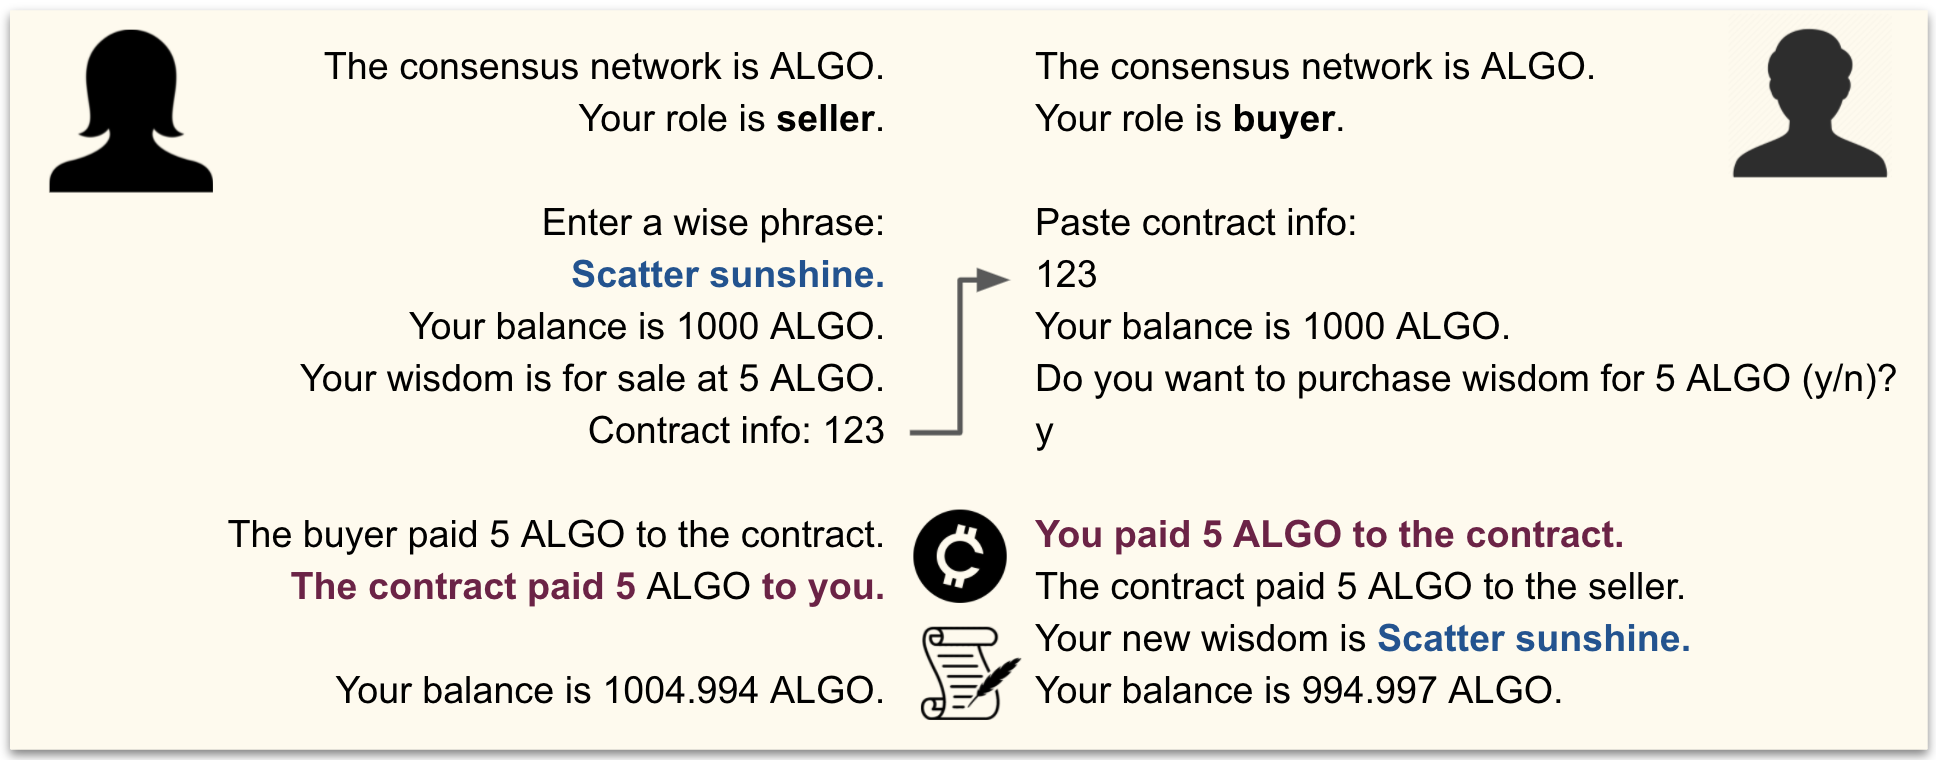
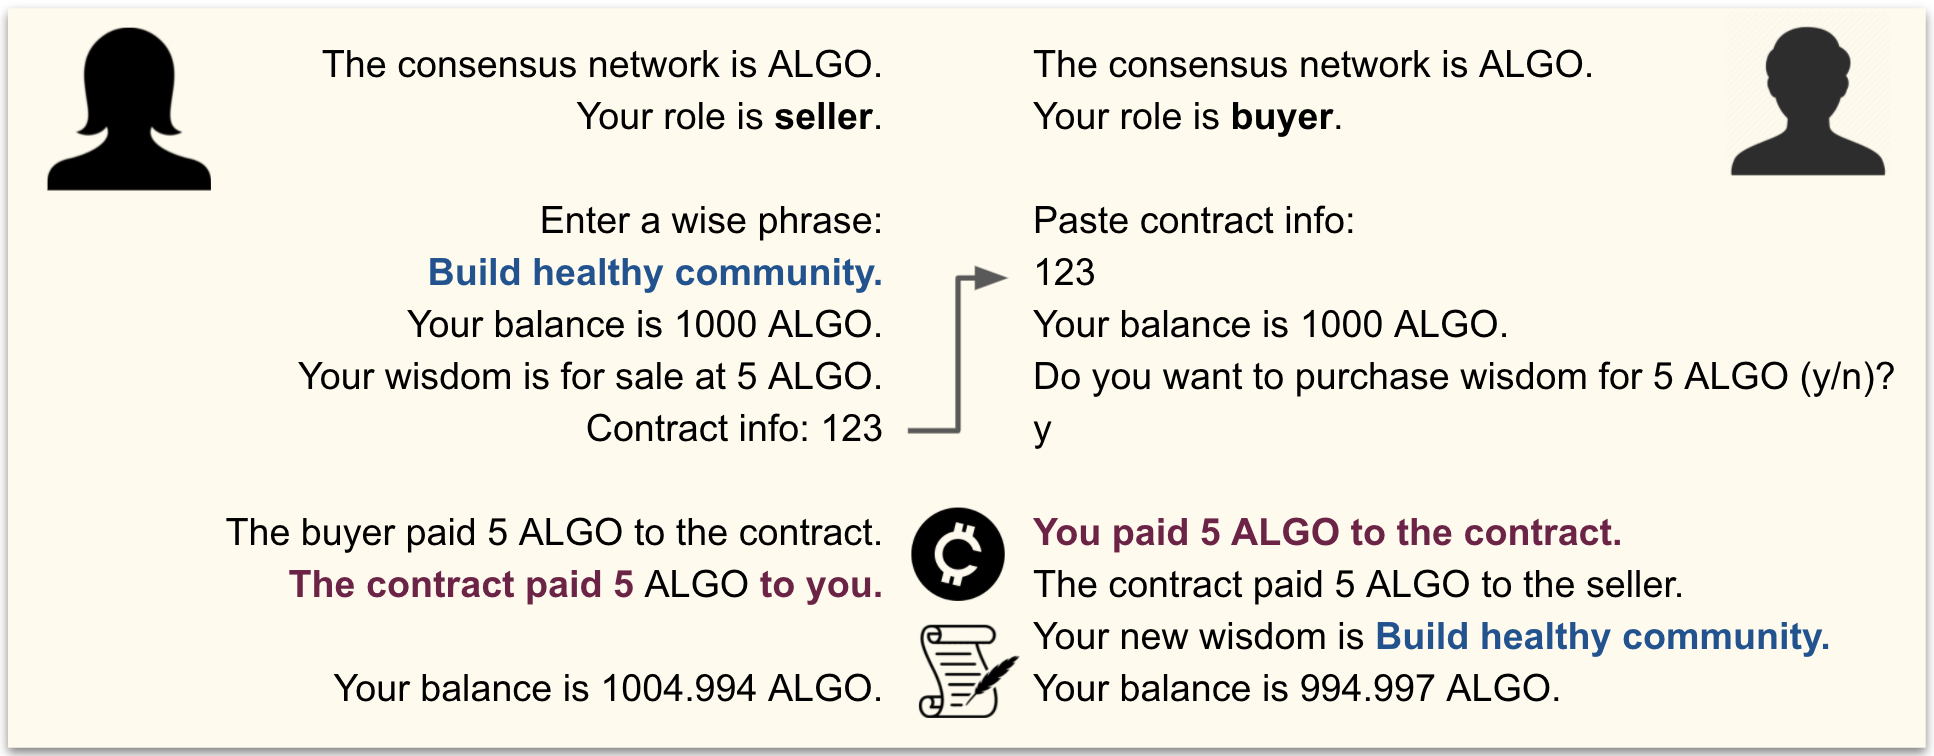
Added ask as a separate step.

diff --git a/assets/scripts.js b/assets/scripts.js
@@ -104,6 +104,7 @@ window.addEventListener('resize', () => {
 ************************************************************************************************/
 
 const getWebpage = async (folder, hash, updateHistory) => {
+  console.log('getWebpage');
 
   folder = folder == '/' || folder == `/${lang}/` ? homepage : folder;
   const url = `${window.location.origin}${folder}`;
@@ -322,19 +323,20 @@ const getWebpage = async (folder, hash, updateHistory) => {
 ************************************************************************************************/
 
 const followLink = async (href) => {
+  console.log('followLink');
   let a = document.createElement('a');
   a.href = href;
 
-  console.log(a.pathname);
-  console.log(a.hash);
+  //console.log(a.pathname);
+  //if(a.hash) {console.log(a.hash)};
 
   if (a.hostname === window.location.hostname) {
     if (currentPage.folder == a.pathname && a.hash) {
       if (a.hash === '#on-this-page') {
-        history.pushState(null, null, currentPage.folder);
+        window.history.pushState(null, null, currentPage.folder);
         document.getElementById('page-col').scrollTo(0, 0);
       } else {
-        history.pushState(null, null, a.hash);
+        window.history.pushState(null, null, a.hash);
         document.getElementById(a.hash.substring(1)).scrollIntoView();
       }
     }

diff --git a/tools/generator.js b/tools/generator.js
@@ -67,7 +67,7 @@ const argv = yargs(process.argv.slice(2))
     alias: 'r',
     describe: 'Add refresh button to page.',
     type: 'boolean',
-    default: true
+    default: false
   })
   .option('type', {
     alias: 't',

diff --git a/en/books/essentials/tutorials/wisdom-for-sale/index.md b/en/books/essentials/tutorials/wisdom-for-sale/index.md
@@ -81,21 +81,19 @@ Below is a line-by-line description of this JavaScript code:
 
 * Line 1: Import the Reach JS Standard Library loader.
 * Line 2: Import the JS backend compiled from index.rsh.
-* Line 3: Import a Reach Node.js package to help with command-line i/o.
-* Line 5: Hard-code the role. You will change this later.
-* Line 6: Display the role.
-* Line 8: Load the Reach JS Stdlib for the consensus network specified by `REACH_CONNECTOR_MODE` env var.
-* Line 9: Display the consensus network type.
-* Line 11: Enable enclosed code to await the fulfillment of promises.
-* Line 13: Define empty (for now) object.
-* Line 16: Code for when you run this app as the seller.
-* Line 17: Define empty (for now) object.
-* Line 19: Create an account for the seller. *parseCurrency* transforms units from standard to atomic.
-* Line 20: Get a reference to the contract.
-* Line 21: Initiate interaction with contract for seller.
-* Line 25: Code for when you run this app as the buyer.
-* Line 26: Define empty (for now) object.
-* Line 29: Call process.exit(0).
+* Line 4: Hard-code the role. You will change this later.
+* Line 5: Display the role.
+* Line 7: Load the Reach JS Stdlib for the consensus network specified by `REACH_CONNECTOR_MODE` env var.
+* Line 8: Display the consensus network type.
+* Line 10: Enable enclosed code to await the fulfillment of promises.
+* Line 12: Define empty (for now) object.
+* Line 15: Code for when you run this app as the seller.
+* Line 16: Define empty (for now) object.
+* Line 18: Create an account for the seller. *parseCurrency* transforms units from standard to atomic.
+* Line 19: Get a reference to the contract.
+* Line 20: Initiate interaction with contract for seller.
+* Line 24: Code for when you run this app as the buyer.
+* Line 25: Define empty (for now) object.
 
 **index.rsh**
 
@@ -228,7 +226,7 @@ Below is a line-by-line description:
 <hr style="background-color:#6c757d;opacity:1;height:5px;"/>
 </span>
 
-# Pass role as argument
+# Pass a role argument
 
 This section shows you how to modify the starter app to accept a command-line argument specifying whether to run as the seller or buyer. Although this change does not involve Reach directly, it does emphasize that your application represents two different participants negotiating via the same contract.
 
@@ -404,7 +402,7 @@ This section helps you explore standard and atomic units using the [JavaScript S
 
 # Deploy the contract (seller)
 
-This section shows you how to have the seller (1) deploy the contract and (2) return the contract information used later by the buyer to attach to the contract. The format of contract information varies depending on the consensus network. Here are examples:
+This section shows you how to have the seller (1) deploy the contract and (2) return the contract information to be used later by the buyer to attach to the contract. The format of contract information varies depending on the consensus network. Here are examples:
 
 |Conensus Network|Contract Information Example|
 |-|-|
@@ -412,7 +410,20 @@ This section shows you how to have the seller (1) deploy the contract and (2) re
 |Conflux|`"NET999:TYPE.CONTRACT:ACDWGDGH6DKDAJ528Y5CCWMX8NBVPHXU72S3FPF8CY"`|
 |Ethereum|`"0x403372276F841d7451E6417Cc7B17fDD159FE34C"`|
 
-Be sure to include the quotation marks (if present) when you copy & paste contract information from the Seller Terminal to the Buyer Terminal.
+In this tutorial, the seller outputs the contract information to the Seller Terminal, and the buyer copies & pastes the contract information from the Seller Terminal to the Buyer Terminal (including the quotation marks if persent). In real life, the seller would need to search for a contract name and its associated contract information in some repository. 
+
+<button class="btn btn-secondary btn-sm" type="button" data-bs-toggle="collapse" data-bs-target="#fsci" aria-expanded="false">
+  <i class="fas fa-info-circle me-2"></i><span>Storing and Finding Contract Information</span>
+</button>
+
+<span class="collapse" id="fsci">
+
+Not done yet.
+
+<hr style="background-color:#6c757d;opacity:1;height:5px;"/>
+</span>
+
+Follow these directions to have the seller deploy the contract and return the contract information:
 
 1. In *index.mjs*, find the following line:
 
@@ -491,7 +502,7 @@ Be sure to include the quotation marks (if present) when you copy & paste contra
 
     The seller creates the contract, retrieves the contract information, and makes it available to the buyer who will (shortly) use the information to attach to the contract. Note that simply deploying the contract cost the seller gas.
 
-The interact objects introduced in this section facilitate communication between the frontend (e.g. `index.mjs`) and backend (e.g. `index.main.mjs`) of Reach applications, remembering that `index.rsh` is the pre-compiled version of `index.main.mjs`.
+The interact objects introduced in this section facilitate communication between the frontend (e.g. `index.mjs`) and backend (e.g. `index.main.mjs`) of Reach applications, (remembering that `index.rsh` is the pre-compiled version of `index.main.mjs`).
 
 <button class="btn btn-secondary btn-sm" type="button" data-bs-toggle="collapse" data-bs-target="#aio" aria-expanded="false">
   <i class="fas fa-info-circle me-2"></i><span>About Interact Objects</span>
@@ -506,7 +517,15 @@ Not done yet.
 
 # Attach to the contract (buyer)
 
-This section shows you how to have the buyer attach to the contact.
+This section shows you how to have the buyer attach to the contact. It also introduces *@reach-sh/stdlib/ask.mjs*, a minimal Reach Node.js package for command-line input.
+
+1. In *index.mjs*, add the following near the top of the file:
+
+    ``` js nonum
+    import { ask, yesno, done } from '@reach-sh/stdlib/ask.mjs';
+    ```
+
+1. And, add `done();` just before `})();` at the bottom of the file. 
 
 1. In *index.mjs*, find the following line:
 
@@ -730,7 +749,7 @@ This section shows you how to get wisdom from the seller on the frontend, and sw
 
     ``` js nonum
     wisdom: await ask('Enter a wise phrase, or press Enter to use a default wise phrase:', (s) => {
-      let w = !s ? 'Scatter sunshine.' : s;
+      let w = !s ? 'Build health community.' : s;
       if (!s) { console.log(w); }
       return w;
     }),
@@ -771,7 +790,7 @@ This section shows you how to get wisdom from the seller on the frontend, and sw
     Your role is seller.
     The consensus network is ALGO.
     Enter a wise phrase, or press Enter for default:
-    Scatter sunshine.
+    Build health community.
     Your balance is 1000 ALGO.
     Your wisdom is for sale at 5 ALGO.
     Contract info: 100
@@ -821,6 +840,8 @@ This section shows you how to get wisdom from the seller on the frontend, and sw
     commit();
     ```
 
+    The buyer pays `price` to the contract which transfers `price` to the seller.
+
 1. Run your DApp as the seller and the buyer. Answer `y` when asked to buy wisdom. Output should resemble the following:
 
     <div class="row gx-3">
@@ -831,7 +852,7 @@ This section shows you how to get wisdom from the seller on the frontend, and sw
     The consensus network is ALGO.
     Enter a wise phrase, or press Enter for default:
     
-    Scatter sunshine.
+    Build health community.
     Your balance is 1000 ALGO.
     Your wisdom is for sale at 5 ALGO.
     Contract info: 111
@@ -859,4 +880,4 @@ This section shows you how to get wisdom from the seller on the frontend, and sw
     </div>
     </div>
 
-# Create the webapp
+# Create a webapp
